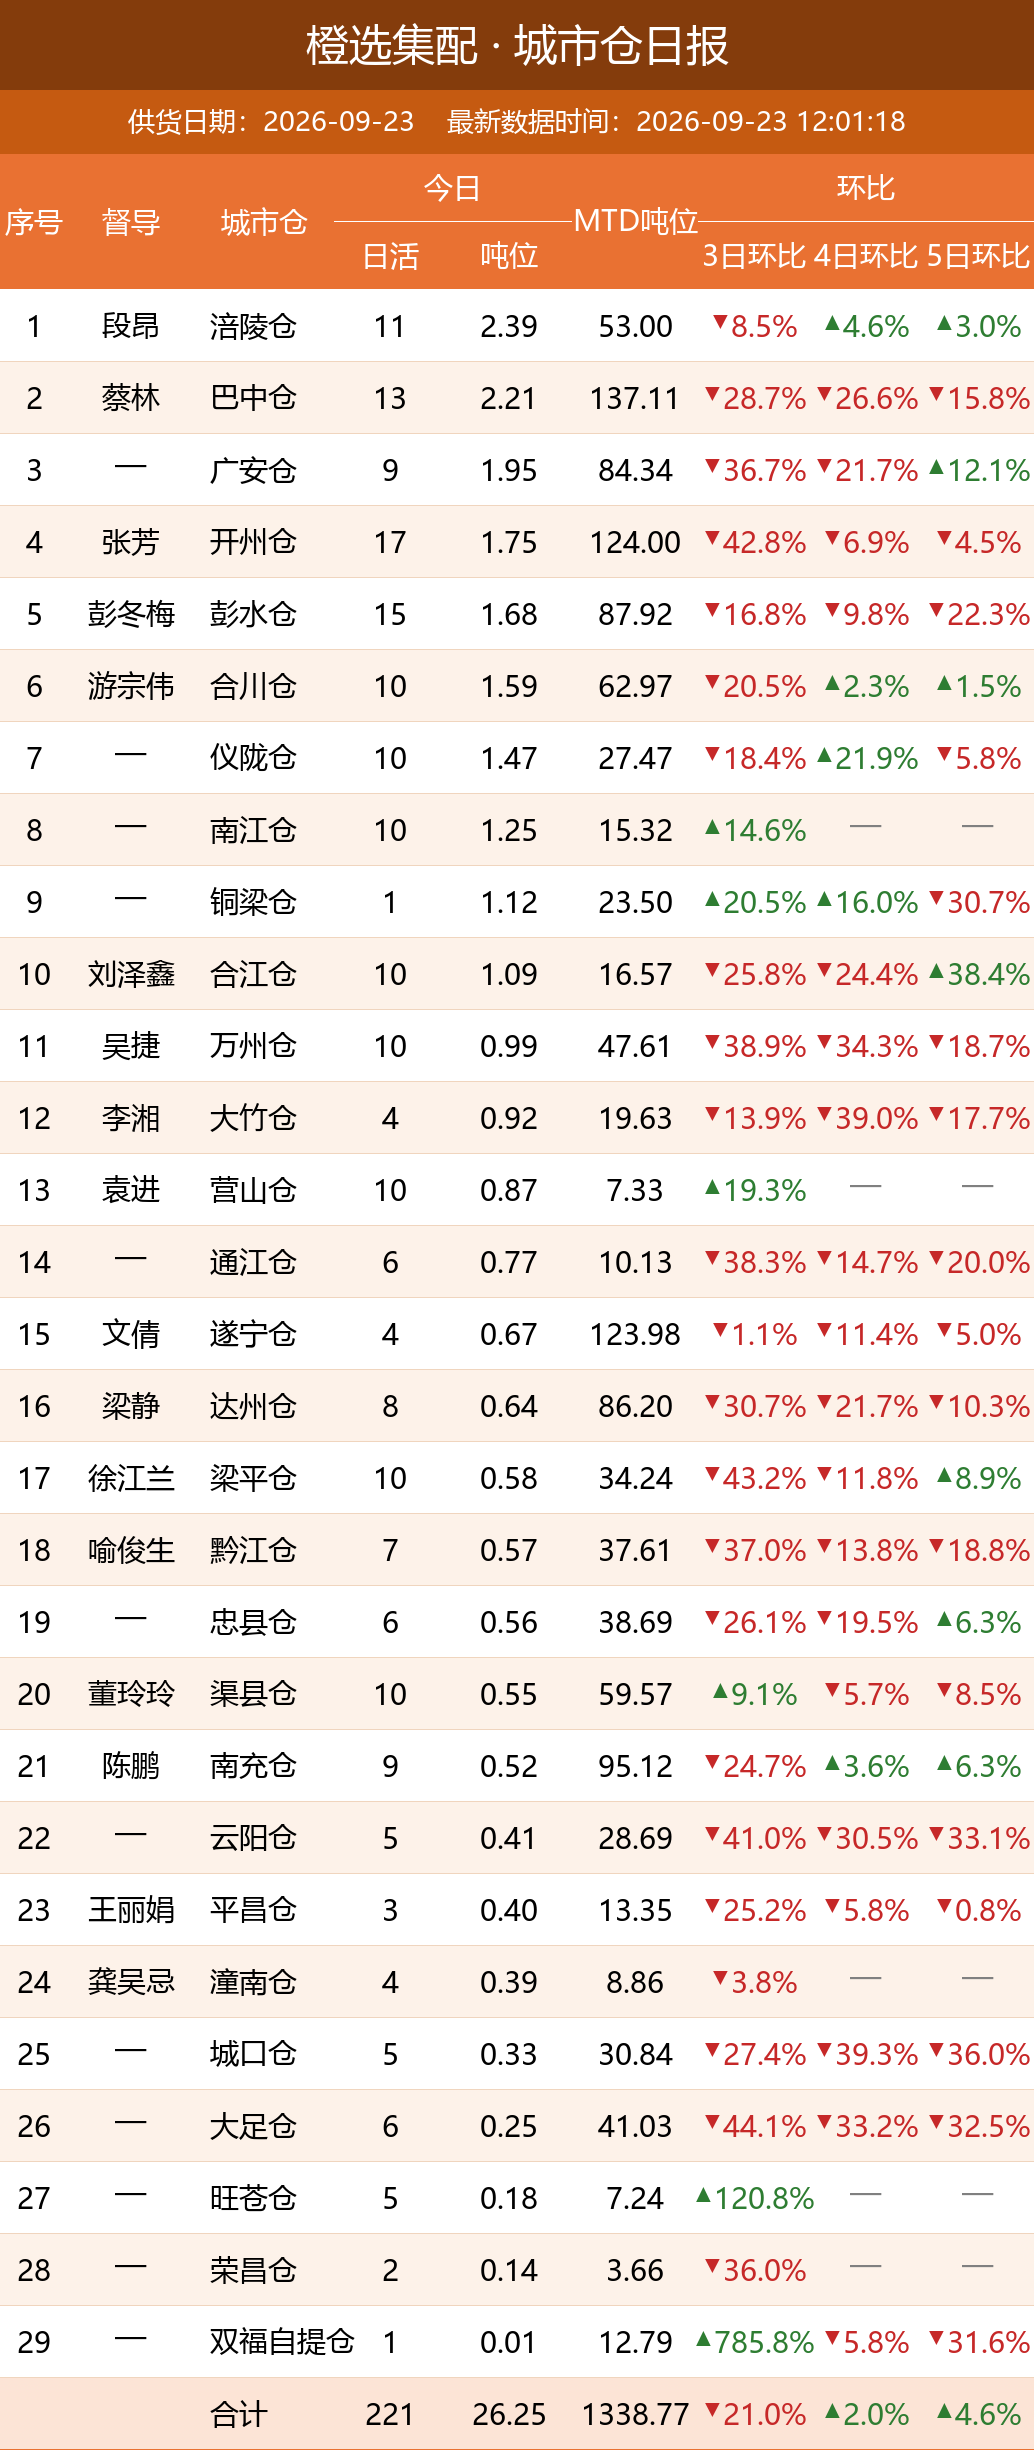
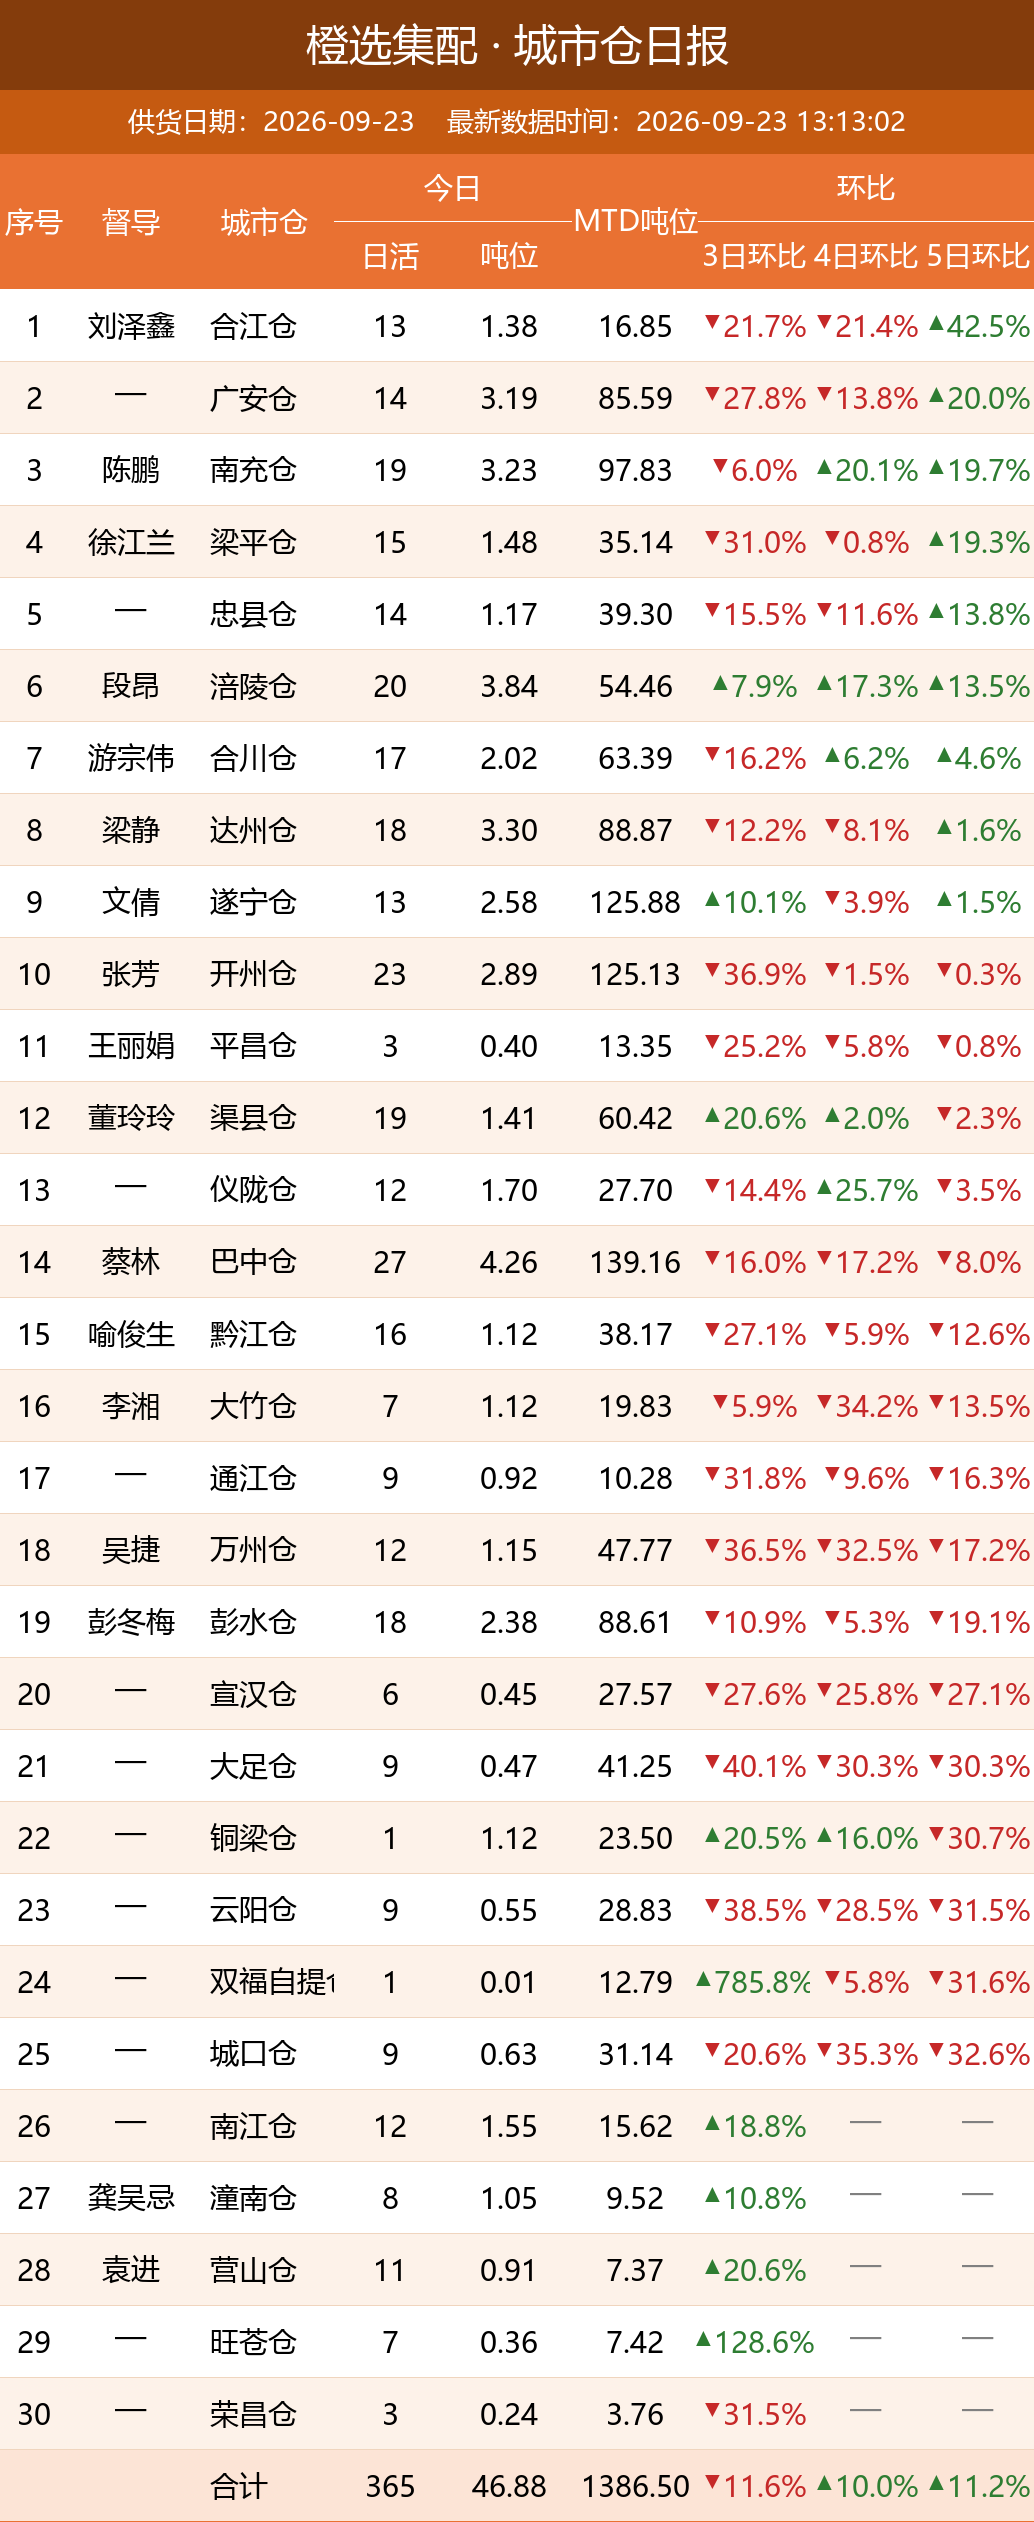
自动更新日报图片

Changed region(s): [[0.0, 0.0, 1.0, 0.9927]]

diff --git a/daily_report/index.html b/daily_report/index.html
@@ -11,7 +11,7 @@ img { max-width: 100%; border: 1px solid #e5e5e5; margin-bottom: 24px; display: 
 </style>
 </head>
 <body>
-<h1>橙选集配日报图片（20260923_120256）</h1>
+<h1>橙选集配日报图片（20260923_131442）</h1>
 <img src="bd_latest.png" alt="BD 日报">
 <img src="wh_latest.png" alt="城市仓日报">
 <img src="zs_latest.png" alt="招商日报">
